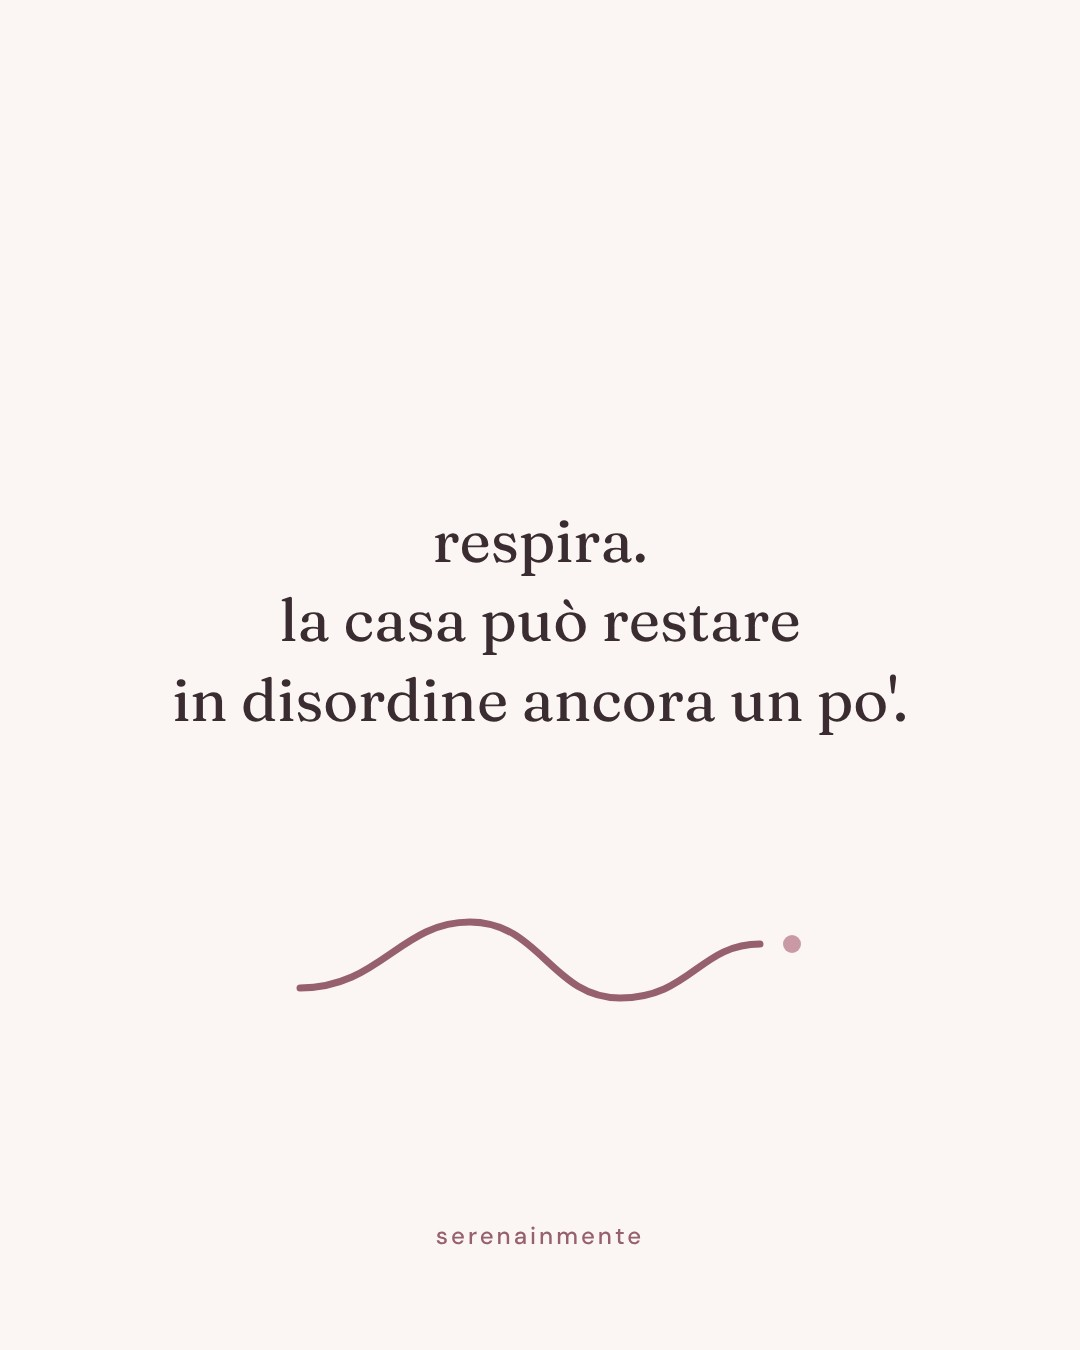
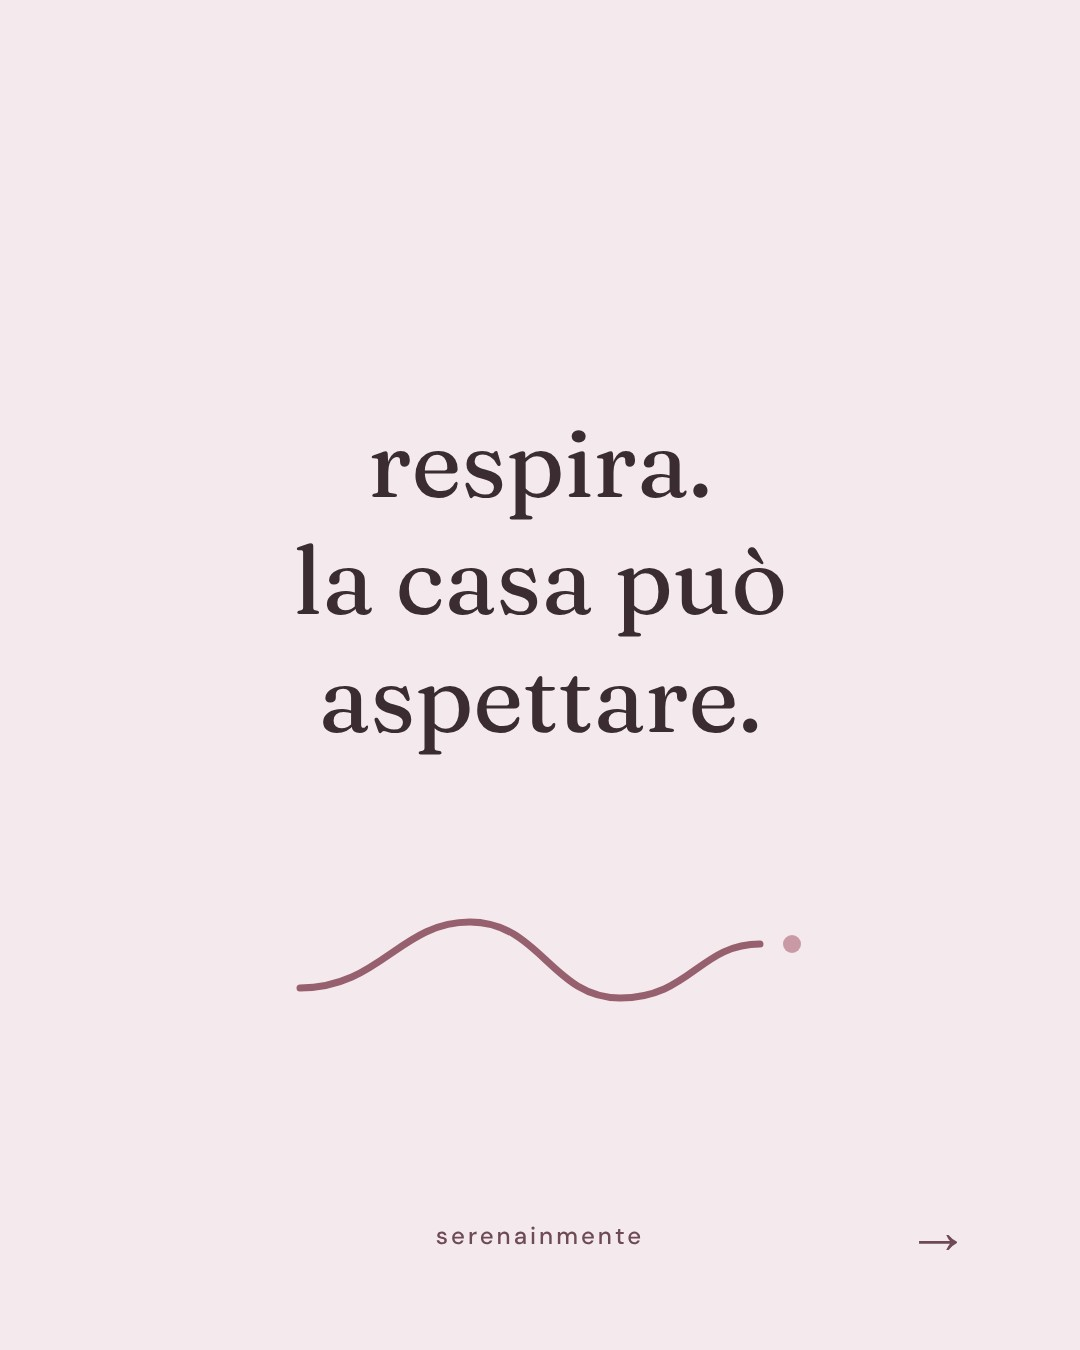
Post 19/11: carosello a 2 slide, frase grande; render.js: stile v2, copertina scura, etichette rubrica (opzionali)
Claude-Session: https://claude.ai/code/session_01PexKGrEoahLuMFXSH7a2SF

diff --git a/gen/grafiche/render.js b/gen/grafiche/render.js
@@ -68,6 +68,15 @@ const css = `
 .mini{position:absolute;left:110px;bottom:110px;width:200px;height:auto}
 .firma{position:absolute;right:110px;bottom:118px;font-family:'DM Sans',sans-serif;font-weight:500;font-size:24px;letter-spacing:3px;color:#97606F}
 .scorri{position:absolute;right:110px;bottom:170px;font-family:'DM Sans',sans-serif;font-weight:500;font-size:26px;color:#97606F}
+/* v2: copertine leggibili in griglia (studio 18/11) */
+.v2 .k{left:80px;right:80px;gap:34px}.v2 .tit{font-size:112px;line-height:1.02;letter-spacing:-1px}.v2 .sot{font-size:36px;color:inherit;opacity:.8}
+.v2 .pill{font-size:30px;padding:16px 30px}.v2 .eti{font-size:24px}.v2 .eti:empty{display:none}
+.v2 .eti,.v2 .scorri,.v2 .firma,.v2 .s,.v2 .arrow,.v2 .cnt,.v2 .rsotto{color:#6E4A55}.v2.rub .eti,.v2.rub .scorri,.v2.rub .agg{color:#4E6A4B}
+.v2 .mini{width:270px;left:80px}.v2 .firma{right:80px}.v2 .scorri{right:80px}
+.v2 .f{left:110px;width:860px;top:330px;height:500px;font-weight:400;font-size:96px;line-height:1.22}.rsotto{position:absolute;left:0;top:1085px;width:1080px;text-align:center;font-family:'DM Sans',sans-serif;font-weight:800;font-size:24px;letter-spacing:4px;text-transform:uppercase}
+.v2.scura .eti,.v2.scura .scorri,.v2.scura .firma,.v2.scura .s,.v2.scura .arrow,.v2.scura .cnt,.v2.scura .rsotto{color:#EBD3D9}.v2.scura .sot{color:#FBF6F4}
+/* copertina scura: rubrica emotiva */
+.scura{color:#FBF6F4}.scura .eti,.scura .scorri,.scura .firma,.scura .s,.scura .arrow,.scura .cnt{color:#EBD3D9}.scura .sot{color:#F1E3E6}.scura svg path{stroke:#EBD3D9}.scura svg circle{fill:#C99AA6}
 `;
 const PATH = 'M 300 128 C 380 128 400 62 470 62 C 540 62 552 138 620 138 C 690 138 700 84 760 84';
 const filo = `<svg class="t" viewBox="0 0 1080 200"><path d="${PATH}" fill="none" stroke="#97606F" stroke-width="7" stroke-linecap="round"/><circle cx="792" cy="84" r="9" fill="#C99AA6"/></svg>`;
@@ -79,11 +88,11 @@ function corpo(it) {
   const tipo = it.tipo || 'frase';
   if (tipo === 'frase') {
     const lab = it.parola ? `<div class="lab">${esc(it.parola)}<small>il vocabolario di Serena · n. ${esc(it.numero)}</small></div>` : '';
-    return `${it.conta ? `<div class="cnt">${esc(it.conta)}</div>` : ''}${lab}<div class="f">${esc(it.frase)}</div>${filo}<div class="s">serenainmente</div>${it.freccia ? '<div class="arrow">→</div>' : ''}`;
+    return `${it.conta ? `<div class="cnt">${esc(it.conta)}</div>` : ''}${lab}<div class="f">${esc(it.frase)}</div>${filo}${it.rubricaSotto ? `<div class="rsotto">${esc(it.rubricaSotto)}</div>` : ''}<div class="s">serenainmente</div>${it.freccia ? '<div class="arrow">→</div>' : ''}`;
   }
   const piede = `${filoMini}<div class="firma">serenainmente</div>`;
   if (tipo === 'copertina')
-    return `<div class="k">${it.rubrica ? `<div class="pill">${esc(it.rubrica)}</div>` : ''}<div class="eti">${esc(it.etichetta)}</div><div class="tit">${esc(it.titolo)}</div>${it.sottotitolo ? `<div class="sot">${esc(it.sottotitolo)}</div>` : ''}${it.aggiornato ? `<div class="agg">${esc(it.aggiornato)}</div>` : ''}</div><div class="scorri">scorri →</div>${piede}`;
+    return `<div class="k">${it.rubrica ? `<div class="pill"${it.accento ? ` style="background:${it.accento};color:${it.accentoTesto || '#FBF6F4'}"` : ''}>${esc(it.rubrica)}</div>` : ''}<div class="eti">${esc(it.etichetta)}</div><div class="tit">${esc(it.titolo)}</div>${it.sottotitolo ? `<div class="sot">${esc(it.sottotitolo)}</div>` : ''}${it.aggiornato ? `<div class="agg">${esc(it.aggiornato)}</div>` : ''}</div><div class="scorri">scorri →</div>${piede}`;
   if (tipo === 'passo')
     return `<div class="k"><div class="num">${esc(it.numero)}</div><div class="pt">${esc(it.titolo)}</div><div class="px">${esc(it.testo)}</div></div>${piede}`;
   if (tipo === 'chiusura')
@@ -108,12 +117,19 @@ function corpo(it) {
   const page = await browser.newPage({ viewport: { width: 1080, height: 1350 } });
   for (const it of items) {
     const tipo = it.tipo || 'frase';
-    const bg = it.sfondo || SFONDI[tipo] || '#FBF6F4';
+    const bg = it.sfondo || (it.scura ? '#6E4A55' : SFONDI[tipo]) || '#FBF6F4';
     const h = it.story ? 1920 : 1350;
-    const cls = `c ${it.densa ? 'densa ' : ''}${(it.rub || it.rubrica) ? 'rub ' : ''}${tipo === 'frase' ? (it.stile || '') + (it.parola ? ' parola' + (String(it.frase || '').split('\n').length > 4 ? ' lunga' : '') : '') : ''} ${it.story ? 'story' : ''}`;
+    const cls = `c ${it.densa ? 'densa ' : ''}${(it.rub || it.rubrica) ? 'rub ' : ''}${tipo === 'frase' ? (it.stile || '') + (it.parola ? ' parola' + (String(it.frase || '').split('\n').length > 4 ? ' lunga' : '') : '') : ''} ${it.story ? 'story' : ''}${it.scura ? ' scura' : ''}${it.v2 ? ' v2' : ''}`;
     await page.setViewportSize({ width: 1080, height: h });
     await page.setContent(`<!doctype html><html><head><meta charset="utf-8"><style>${css}</style></head><body><div class="${cls}" style="background:${bg}">${corpo(it)}</div></body></html>`, { waitUntil: 'load' });
     await page.evaluate(() => document.fonts.ready);
+    if (it.v2) await page.evaluate(() => {
+      const fit = (el, max, min, righe) => { if (!el) return; let fs = max; el.style.fontSize = fs + 'px';
+        const lh = () => parseFloat(getComputedStyle(el).lineHeight);
+        while (fs > min && (el.scrollWidth > el.clientWidth + 1 || (el.classList.contains('f') && el.scrollHeight > el.clientHeight + 1) || (!el.classList.contains('f') && el.getBoundingClientRect().height / lh() > righe + 0.2))) { fs -= 4; el.style.fontSize = fs + 'px'; } };
+      fit(document.querySelector('.tit'), 112, 90, 4);
+      fit(document.querySelector('.f'), 96, 72, 4);
+    });
     // controllo: il testo non deve uscire dal riquadro
     const over = await page.evaluate(() => [...document.querySelectorAll('.f,.k')].some(el => el.scrollHeight > el.clientHeight + 2));
     if (over) console.warn('ATTENZIONE testo troppo lungo:', it.file);
